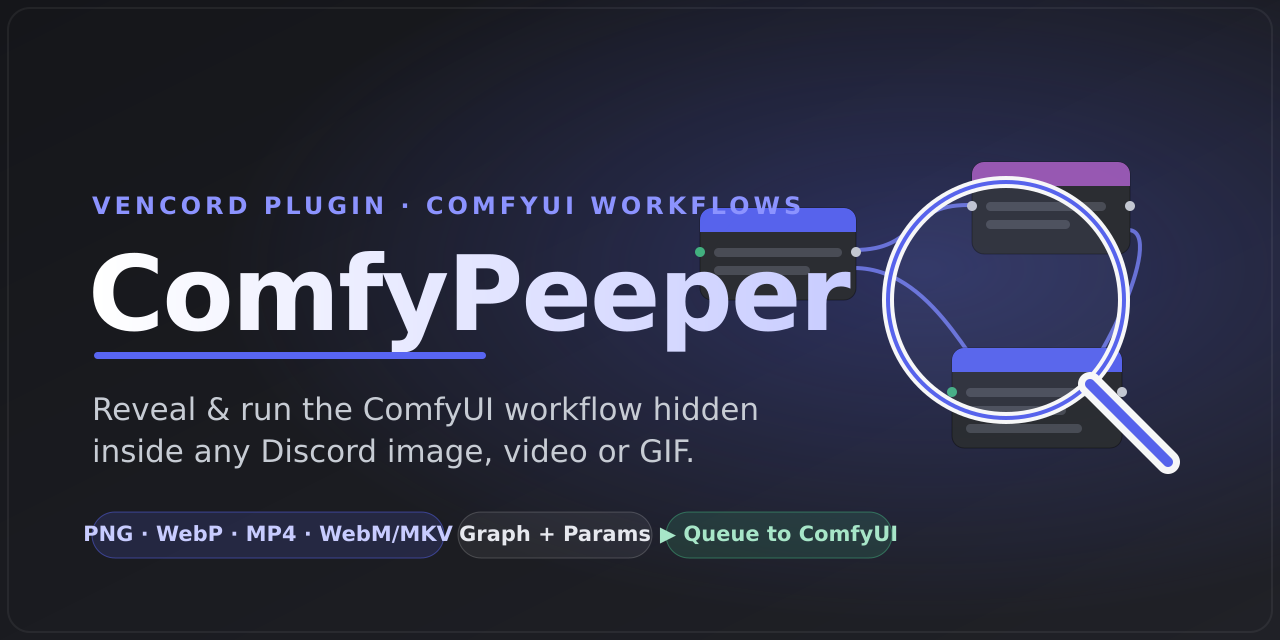
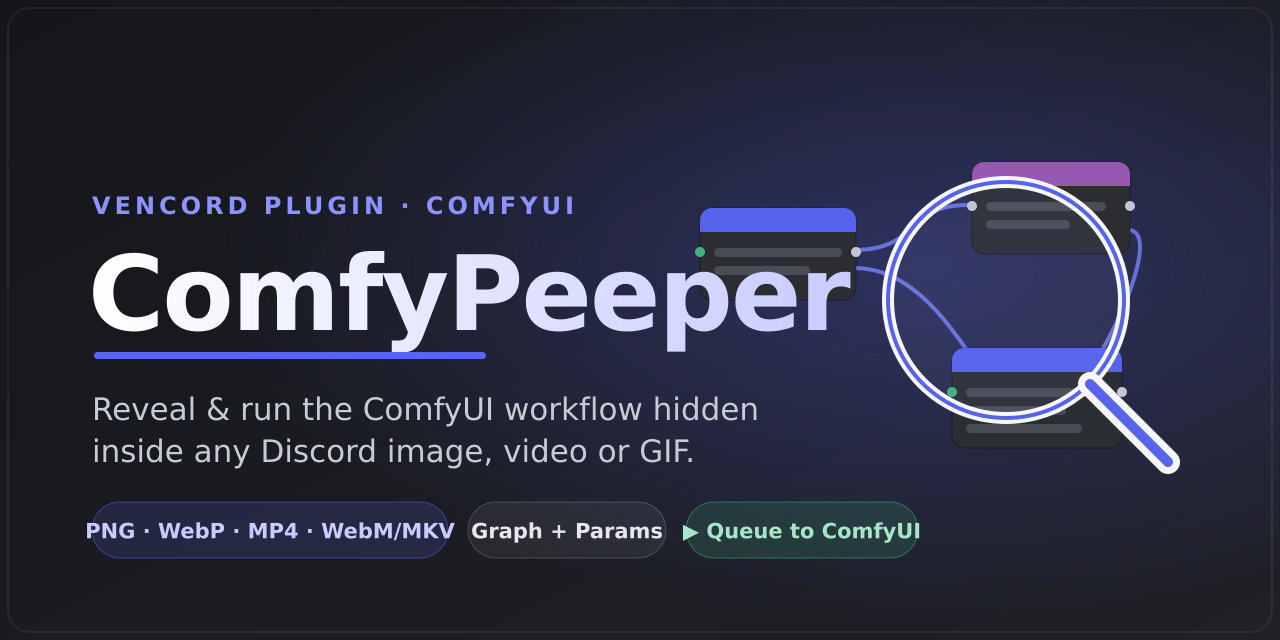
Rebrand badge to a node glyph; fix social-preview clipping
- Replace the 🧩 puzzle emoji with a workflow/node icon (icons.tsx) as the
  in-Discord identity, across the badge, modal title, and check button.
- Social preview: shorten kicker so it clears the graph artwork, and make the
  feature chips taller with vertically-centered text + gaps (no more clipping).
- README wording updated to match the node-graph badge.

Changed region(s): [[0.0625, 0.7812, 0.7188, 0.875], [0.4375, 0.2812, 0.625, 0.3438]]

diff --git a/comfyPeeper/index.tsx b/comfyPeeper/index.tsx
@@ -10,6 +10,7 @@ import ErrorBoundary from "@components/ErrorBoundary";
 import definePlugin from "@utils/types";
 import { Button, React, ReactDOM, useEffect, useRef, useState } from "@webpack/common";
 
+import { NodeIcon } from "./icons";
 import { settings } from "./settings";
 import { copyWithToast, downloadJson, getMeta, kindOf, parseEndpoints, queue, WorkflowMeta } from "./utils";
 import { openWorkflowModal } from "./WorkflowModal";
@@ -45,7 +46,7 @@ function BadgePill({ att, meta, compact }: { att: any; meta: WorkflowMeta; compa
                 title="Open ComfyUI workflow preview"
                 onClick={() => openWorkflowModal(att, meta)}
             >
-                🧩 {compact ? "ComfyUI" : "ComfyUI workflow"}{kindTag}
+                <NodeIcon />{compact ? "ComfyUI" : "ComfyUI workflow"}{kindTag}
             </span>
 
             {!compact && <>
@@ -126,7 +127,7 @@ function WorkflowControls({ att, kind }: { att: any; kind: "png" | "webp" | "vid
         return (
             <div className="cwg-badge">
                 <button className="cwg-check" disabled={busy} onClick={scan}>
-                    {busy ? "Checking…" : "🧩 Check workflow"}
+                    <NodeIcon size={13} />{busy ? "Checking…" : "Check workflow"}
                 </button>
             </div>
         );

diff --git a/comfyPeeper/WorkflowModal.tsx b/comfyPeeper/WorkflowModal.tsx
@@ -6,6 +6,7 @@
 
 import { Button, Modal, openModal, React, useState } from "@webpack/common";
 
+import { NodeIcon } from "./icons";
 import { settings } from "./settings";
 import { checkServer, copyWithToast, downloadJson, extractParams, parseEndpoints, queue, ServerCheck, WorkflowMeta } from "./utils";
 import { WorkflowGraph } from "./WorkflowGraph";
@@ -91,7 +92,7 @@ function WorkflowModal({ rootProps, att, meta }: { rootProps: any; att: any; met
     };
 
     return (
-        <Modal {...rootProps} size="xl" title={<span className="cwg-modal-title">🧩 ComfyUI Workflow — {att.filename || "image"}</span>}>
+        <Modal {...rootProps} size="xl" title={<span className="cwg-modal-title" style={{ display: "inline-flex", alignItems: "center", gap: "8px" }}><NodeIcon size={18} />ComfyUI Workflow — {att.filename || "image"}</span>}>
             <div className="cwg-modal-body">
                 <div className="cwg-modal-media">
                     {isVideo

diff --git a/comfyPeeper/icons.tsx b/comfyPeeper/icons.tsx
@@ -1,0 +1,29 @@
+/*
+ * Vencord, a Discord client mod
+ * Copyright (c) 2026 Vendicated and contributors
+ * SPDX-License-Identifier: GPL-3.0-or-later
+ */
+
+import { React } from "@webpack/common";
+
+/** Node-graph / "workflow" glyph (two connected nodes) — ComfyPeeper's identity mark. */
+export function NodeIcon({ size = 16 }: { size?: number; }) {
+    return (
+        <svg
+            width={size}
+            height={size}
+            viewBox="0 0 24 24"
+            fill="none"
+            stroke="currentColor"
+            strokeWidth={2}
+            strokeLinecap="round"
+            strokeLinejoin="round"
+            style={{ flexShrink: 0, display: "block" }}
+            aria-hidden="true"
+        >
+            <rect x="3" y="3" width="8" height="8" rx="2" />
+            <path d="M7 11v4a2 2 0 0 0 2 2h4" />
+            <rect x="13" y="13" width="8" height="8" rx="2" />
+        </svg>
+    );
+}

diff --git a/comfyPeeper/styles.css b/comfyPeeper/styles.css
@@ -32,6 +32,9 @@
 
 .cwg-check {
     cursor: pointer;
+    display: inline-flex;
+    align-items: center;
+    gap: 4px;
     padding: 2px 8px;
     border-radius: 8px;
     font-size: 12px;

diff --git a/README.md b/README.md
@@ -20,7 +20,7 @@ workflow straight to a ComfyUI instance — local *or* remote.
 
 ## ✨ Features
 
-- 🧩 **Auto-detect** ComfyUI workflows embedded in **PNG, WebP, MP4/MOV, and WebM/MKV** attachments, with a badge on the image (or below the message).
+- **Auto-detect** ComfyUI workflows embedded in **PNG, WebP, MP4/MOV, and WebM/MKV** attachments, with a node-graph badge on the image (or below the message).
 - 🔬 **Interactive graph preview** — a faithful node-graph render (pan, zoom-to-cursor, fit) showing each node's title, connections, and widget values.
 - 📋 **Parameters view** — every node's settings as a clean, copyable list (seed, steps, cfg, sampler, prompts, LoRAs…).
 - 🧾 **Raw JSON** — both the editor `workflow` and the API `prompt` graphs, selectable and copyable.
@@ -87,12 +87,12 @@ VENCORD_DIR=~/Vencord ./scripts/install-vesktop.sh
 |--------------|-------------|
 | **endpoints** | Comma-separated ComfyUI servers, optionally labelled: `Local = http://127.0.0.1:8188, Remote = https://gpu.example.com:8188`. A `Queue → <label>` button appears per server. |
 | **badgeMode** | `Overlay on the image` (default, falls back to below-message), `Below the message`, or `Both`. |
-| **autoScan**  | Auto-scan attachments (default on). Off → a small "🧩 Check workflow" button instead (saves bandwidth). |
+| **autoScan**  | Auto-scan attachments (default on). Off → a small "Check workflow" button instead (saves bandwidth). |
 | **maxSizeMB** | Skip files larger than this when scanning (default 40 MB; videos read only the metadata region). |
 
 ## 🧭 Usage
 
-1. Drop (or scroll to) a ComfyUI image/video in any channel → a 🧩 **ComfyUI workflow** badge appears.
+1. Drop (or scroll to) a ComfyUI image/video in any channel → a **ComfyUI workflow** badge appears on it.
 2. Click it to open the previewer: **Graph**, **Parameters**, and **JSON** tabs.
 3. **Copy / Save** the workflow, or **Queue → \<server\>** to run it.
 4. Not sure a server has the right nodes? Hit **Check servers** — green = can run, red = missing nodes (click a red server to highlight the missing nodes on the graph).
